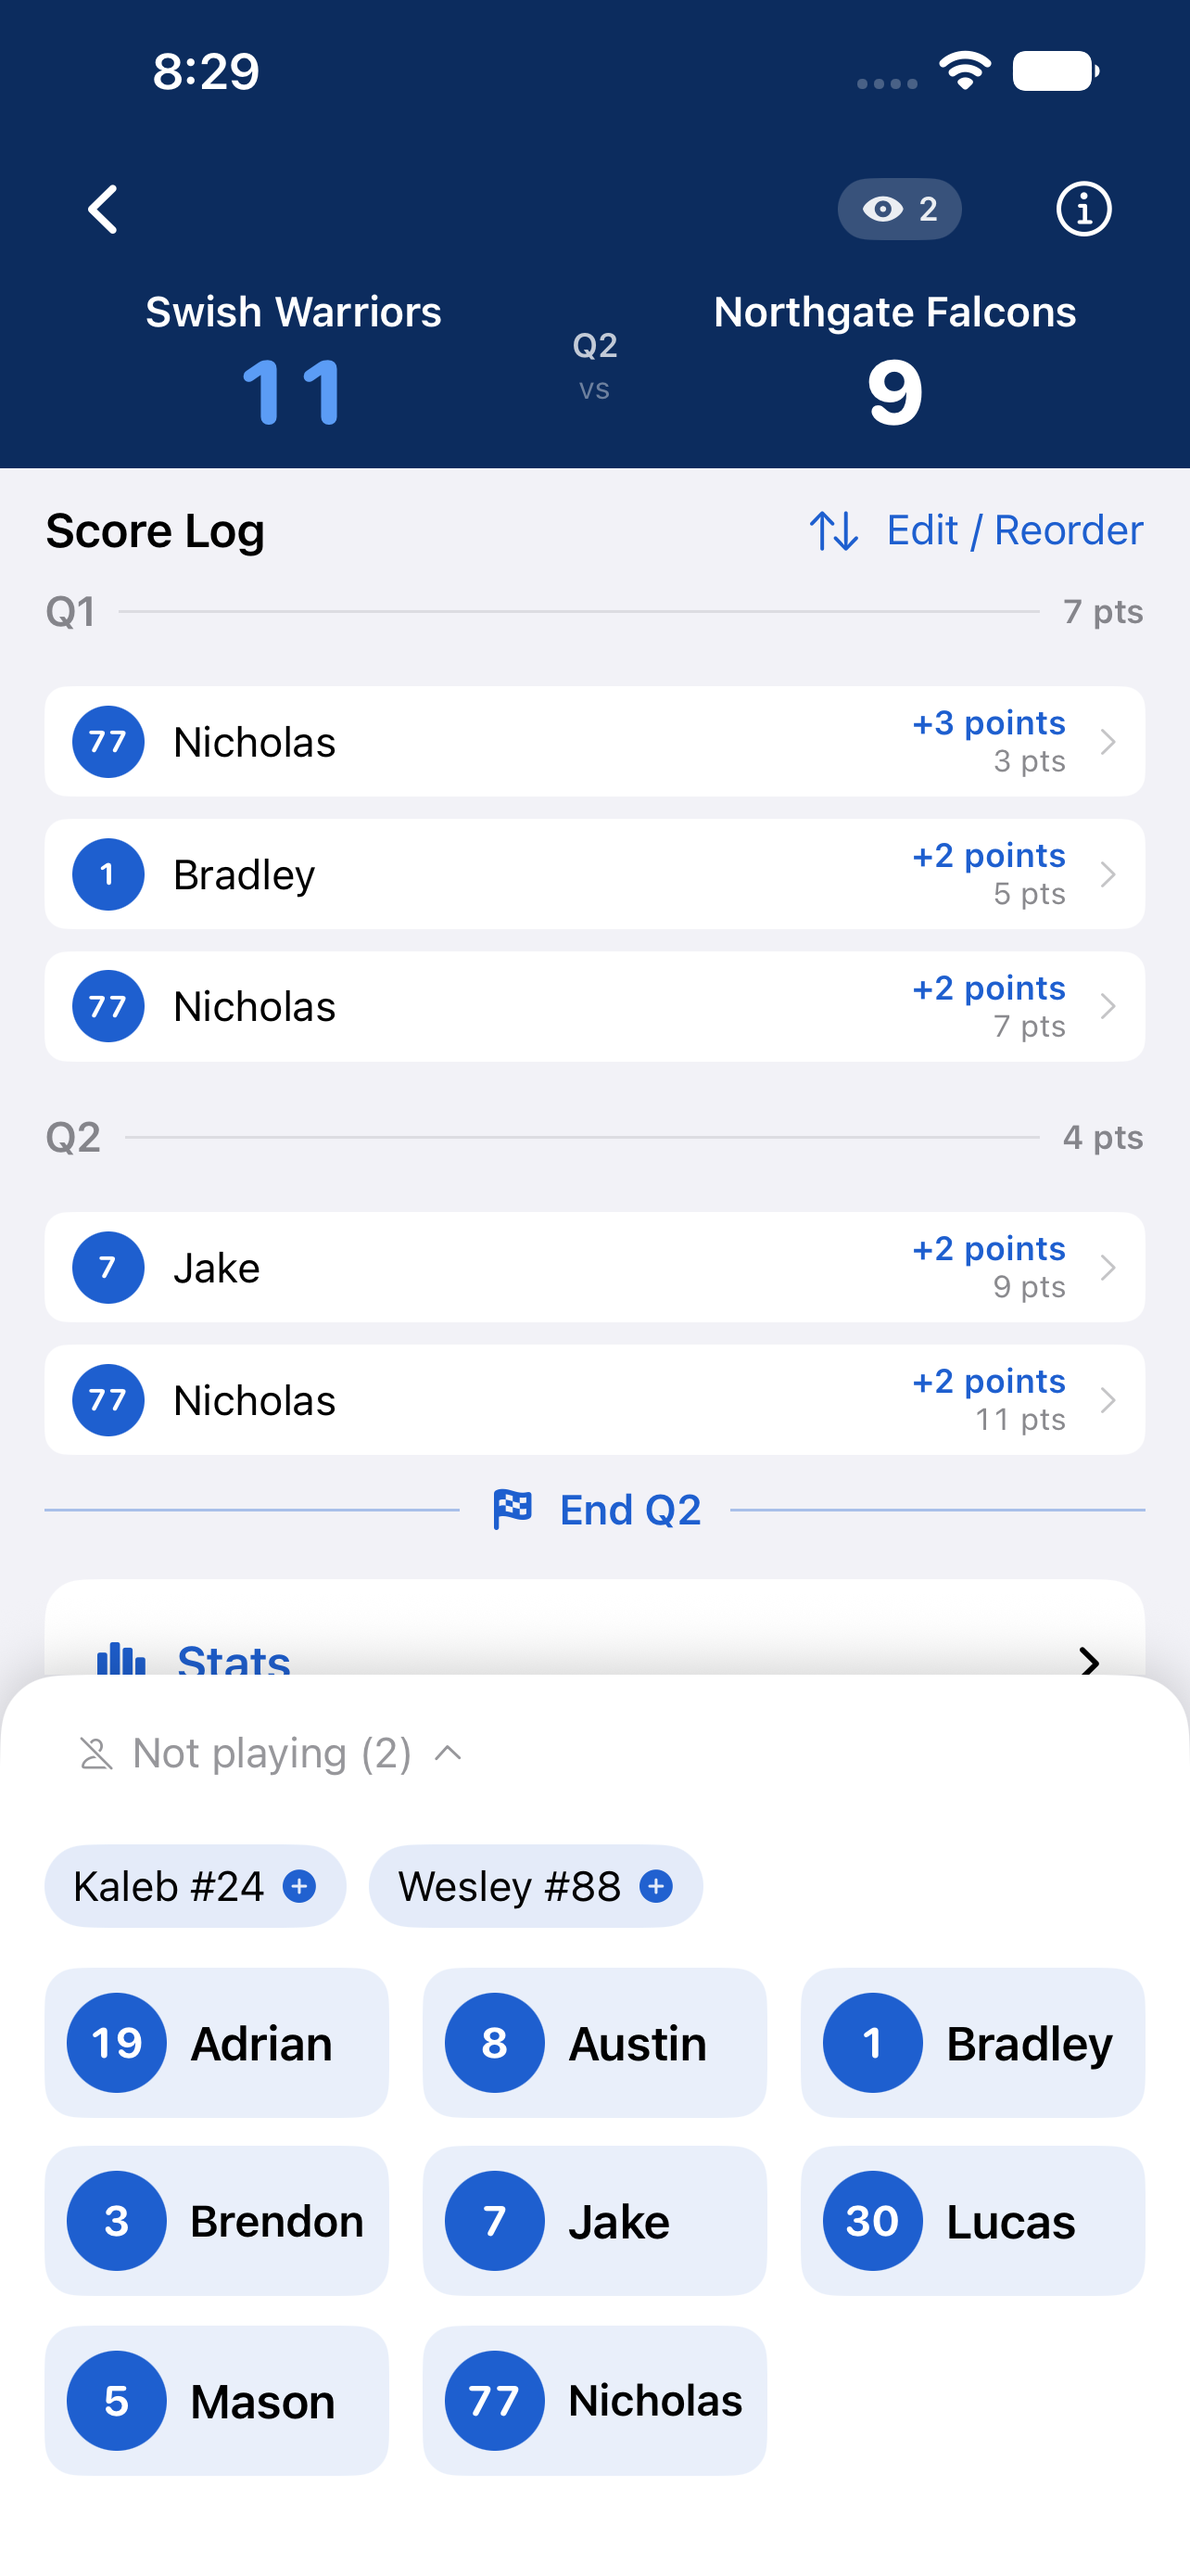
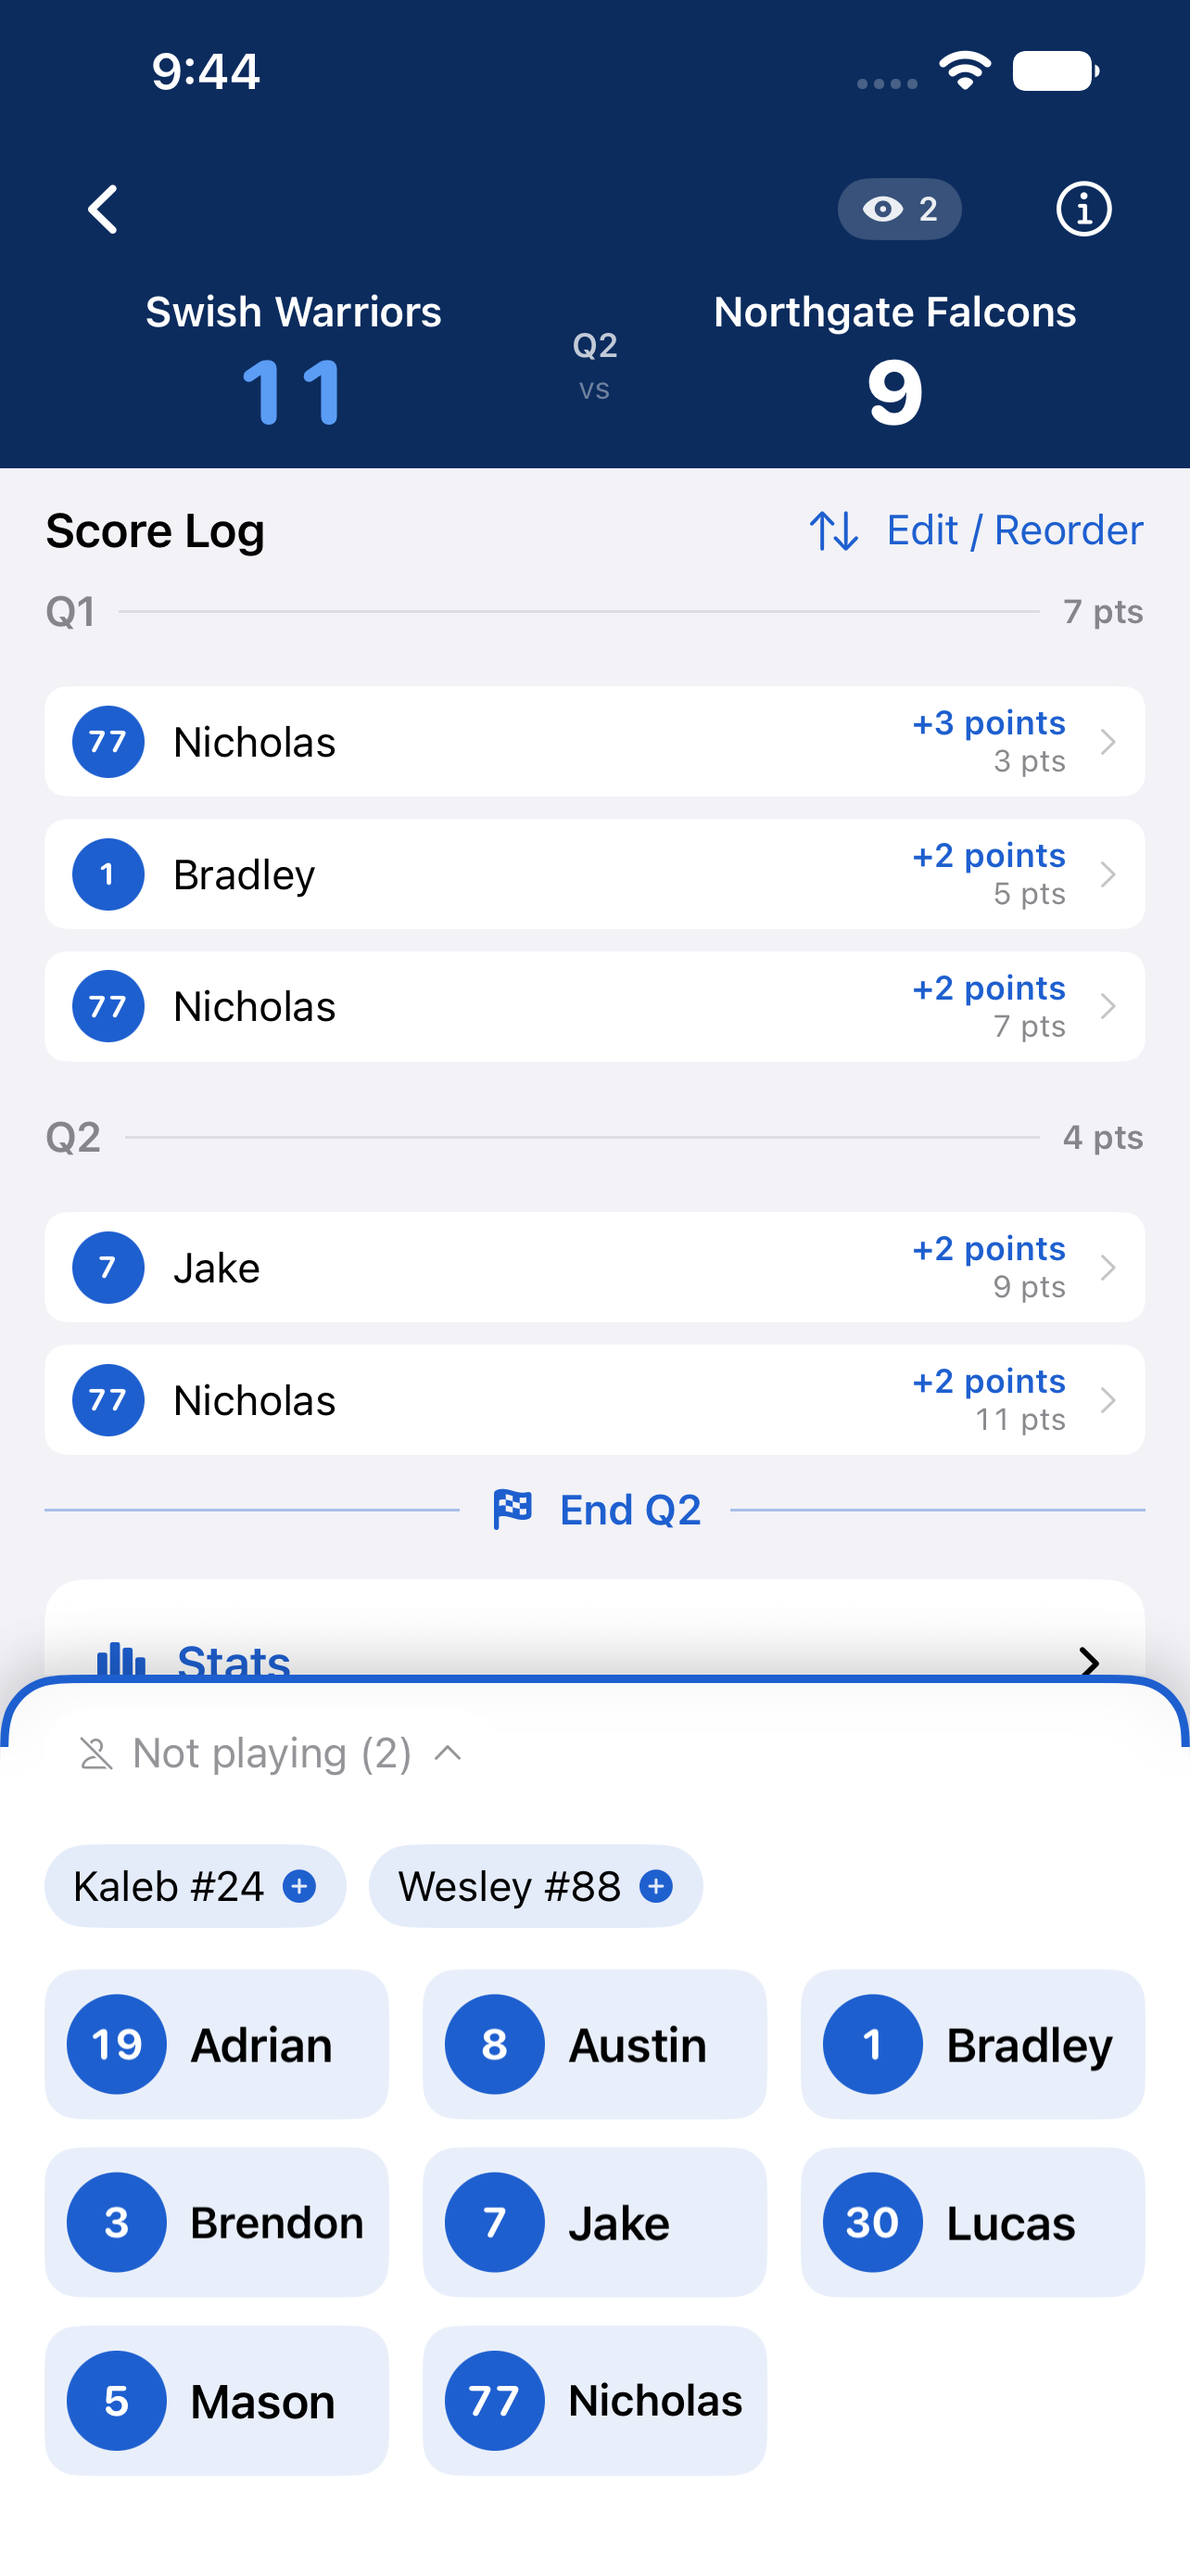
Make the scoring deck visibly separate in dark mode
In dark mode the deck and the Score Log behind it were both literally `(0,0,0)`
— `systemBackground` and `systemGroupedBackground` are the same pure black — so
the raised panel had no edge at all. The shadow didn't help either: black at 18%
over black. Confirmed by sampling the pixels, not by eye.

Two changes:

- The deck sits on `secondarySystemGroupedBackground`, which is elevated against
  the grouped background in **both** appearances — dark `(28,28,30)` on
  `(0,0,0)`, light white on grey.
- A **team-colour rule along the top edge**. Elevation alone is a couple of RGB
  points in dark mode: technically separate, easy to miss courtside. A coloured
  edge names the boundary outright, and this is the one line on the screen that
  says "below here, taps score".

Checked in both appearances by driving the simulator's appearance rather than
assuming — light mode is unchanged apart from gaining the edge.

diff --git a/CourtsideHoopStats/Views/LiveScoringView.swift b/CourtsideHoopStats/Views/LiveScoringView.swift
@@ -158,12 +158,7 @@ struct LiveScoringView: View {
             .padding(.horizontal)
             .padding(.top, 12)
             .padding(.bottom, 2)
-            .background(
-                UnevenRoundedRectangle(topLeadingRadius: 22, topTrailingRadius: 22)
-                    .fill(Color(.systemBackground))
-                    .ignoresSafeArea(edges: [.horizontal, .bottom])
-                    .shadow(color: .black.opacity(0.18), radius: 10, y: -3)
-            )
+            .background(deckSurface)
         }
         .background(
             GeometryReader { proxy in
@@ -214,6 +209,38 @@ struct LiveScoringView: View {
                 onBench: { bench(player.id) }
             )
         }
+    }
+
+    /// The raised surface the player deck sits on.
+    ///
+    /// `secondarySystemGroupedBackground`, not `systemBackground`: in **dark
+    /// mode** the latter is pure black — and so is the grouped background
+    /// behind the Score Log, so the deck and the log were both `(0,0,0)` with
+    /// nothing between them. The shadow didn't help either, being black on
+    /// black. This colour is elevated against the grouped background in both
+    /// appearances.
+    ///
+    /// The hairline does the rest of the work. A shadow only reads when the
+    /// surface below is lighter than it; a stroke reads regardless, which
+    /// matters here because this edge is the boundary between the part of the
+    /// screen you read and the part you tap.
+    private var deckSurface: some View {
+        let shape = UnevenRoundedRectangle(topLeadingRadius: 22, topTrailingRadius: 22)
+        return shape
+            .fill(Color(.secondarySystemGroupedBackground))
+            // A team-colour rule along the top edge. The elevation alone is a
+            // couple of RGB points in dark mode — technically separate, easy to
+            // miss. A coloured edge names the boundary outright, and this is the
+            // one line on the screen that says "below here, taps score".
+            .overlay(alignment: .top) {
+                shape
+                    .strokeBorder(store.team.kitColor.swatch, lineWidth: 3)
+                    .mask(alignment: .top) {
+                        Rectangle().frame(height: 26)
+                    }
+            }
+            .ignoresSafeArea(edges: [.horizontal, .bottom])
+            .shadow(color: .black.opacity(0.18), radius: 10, y: -3)
     }
 
     // MARK: - Scoreboard top bar (replaces the system nav bar)
